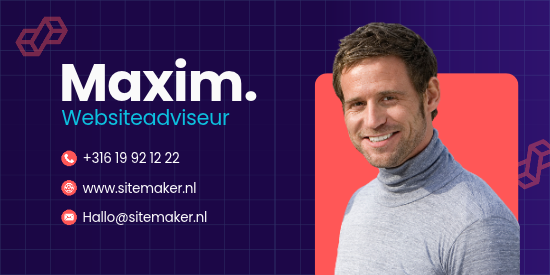
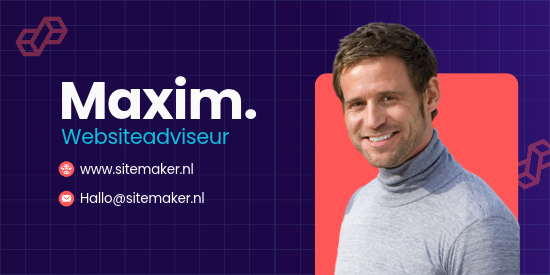
HQ: knop 'Direct offline' (zoeken + concept offline en nooit meer mailen); nieuwe handtekening in de mail (#103)
Claude-Session: https://claude.ai/code/session_01HEiU6SCVQeMyeThAhPgJ1r

Changed region(s): [[0.0927, 0.2036, 0.4636, 0.5236], [0.0927, 0.5527, 0.3709, 0.8145]]

diff --git a/public/hq/app.js b/public/hq/app.js
@@ -1116,7 +1116,7 @@
     const opvolgKlaar = d.followupDue.length;
     render(main, html`
       <div class="hq-kop"><div><h1>B2B</h1><p>Bedrijven benaderen per mail. Niets gaat de deur uit zonder jouw goedkeuring; afmelden kan altijd met één klik. Vandaag verstuurd: ${d.sentToday} van max. ${d.dailyMax}.</p></div>
-        <div class="knoppen"><button class="knop knop-actie" id="lead-nieuw">Lead toevoegen</button><button class="knop knop-licht" id="lead-import">CSV importeren</button>${d.ready.scout ? html`<button class="knop knop-licht" id="scout">Scout nu zoeken</button>` : ""}</div></div>
+        <div class="knoppen"><button class="knop knop-gevaar" id="offline" title="Iemand wil het niet: concept direct offline en nooit meer mailen">Direct offline</button><button class="knop knop-actie" id="lead-nieuw">Lead toevoegen</button><button class="knop knop-licht" id="lead-import">CSV importeren</button>${d.ready.scout ? html`<button class="knop knop-licht" id="scout">Scout nu zoeken</button>` : ""}</div></div>
       ${b2bTabs("leads", n("nieuw"))}
       ${!d.ready.mail ? html`<div class="melding melding-let">${raw(icon.let)}<p>Mail is nog niet ingesteld (MAIL_USER/MAIL_PASSWORD). Goedgekeurde mails blijven in de wachtrij tot dat geregeld is.</p></div>` : ""}
       ${!d.ready.company ? html`<div class="melding melding-let">${raw(icon.let)}<p>Vul bij <a href="#instellingen">Instellingen</a> je bedrijfsnaam en KvK-nummer in; die staan verplicht onder elke zakelijke mail.</p></div>` : ""}
@@ -1140,6 +1140,7 @@
 
     main.querySelectorAll("[data-f]").forEach((b) => b.addEventListener("click", async () => { leadFilter = b.dataset.f; await b2bLeads(main); zetBalk(main, "b2b"); }));
     main.querySelector("#lead-nieuw").onclick = () => leadToevoegen();
+    main.querySelector("#offline").onclick = () => offlineDialoog();
     main.querySelector("#lead-import").onclick = () => leadImport();
     main.querySelector("#scout")?.addEventListener("click", async (e) => { SM.bezig(e.target, true, "Zoeken…"); try { await api("hq/scout", { method: "POST" }); toast("Zoekopdrachten gestart; resultaten komen binnen het uur binnen."); } catch (err) { toast(err.message, "fout"); } SM.bezig(e.target, false); });
     main.querySelector("#opvolgen")?.addEventListener("click", async () => {
@@ -1163,6 +1164,33 @@
     if (!c) return l.website ? html`<span class="klein dempen">Nog niet</span>` : html`<span class="klein dempen">Geen website</span>`;
     if (c.status !== "klaar") return html`${chip(L.concept, c.status)}${c.reden ? html`<br><span class="klein dempen">${c.reden}</span>` : ""}`;
     return html`<a class="klein" href="${c.url}?hq=1" target="_blank" rel="noopener">Bekijken</a>${c.views ? html`<br><span class="status s-fout">${c.views}× bekeken</span>` : html`<br><span class="klein dempen">Nog niet geopend</span>`}`;
+  }
+
+  // Iemand reageert boos of wil het niet: zoek de lead en haal het voorbeeld direct offline (en nooit meer mailen).
+  function offlineDialoog() {
+    const dlg = SM.dialoog("Direct offline halen", html`<form novalidate>
+      <div class="veld"><label for="off-q">Domein, e-mailadres of bedrijfsnaam</label><input id="off-q" name="q" autocomplete="off" placeholder="bijv. fysiokilic.nl"></div>
+      <div id="off-lijst" class="klein dempen">Typ minstens 3 tekens.</div></form>`);
+    const inp = dlg.querySelector("#off-q"), lijst = dlg.querySelector("#off-lijst");
+    let timer;
+    const zoek = async () => {
+      const v = inp.value.trim();
+      if (v.length < 3) { lijst.textContent = "Typ minstens 3 tekens."; return; }
+      try {
+        const r = await api("hq/leads/zoek?q=" + encodeURIComponent(v));
+        if (!r.leads.length) { lijst.textContent = "Niets gevonden."; return; }
+        render(lijst, html`<ul class="offline-lijst">${r.leads.map((l) => html`<li><div><b>${l.company}</b><br><span class="klein dempen">${l.website || ""}${l.email ? ` · ${l.email}` : ""}${l.status === "afgemeld" ? " · al afgemeld" : ""}</span></div>
+          <button class="knop knop-gevaar knop-klein" type="button" data-id="${l.id}" data-naam="${l.company}">${l.status === "afgemeld" ? "Nogmaals offline" : "Offline halen"}</button></li>`)}</ul>`);
+      } catch (e) { lijst.textContent = e.message; }
+    };
+    inp.addEventListener("input", () => { clearTimeout(timer); timer = setTimeout(zoek, 250); });
+    dlg.querySelector("form").addEventListener("submit", (e) => { e.preventDefault(); zoek(); });
+    lijst.addEventListener("click", async (e) => {
+      const b = e.target.closest("button[data-id]"); if (!b) return;
+      if (!(await SM.bevestig("Direct offline halen?", `Het voorbeeld van ${b.dataset.naam} gaat meteen offline en ze krijgen nooit meer een mail van ons.`, "Offline halen"))) return;
+      try { await api("hq/leads/action", { method: "POST", body: { action: "afmelden", ids: [Number(b.dataset.id)] } }); toast("Offline gehaald en afgemeld"); dlg.close(); herlaad(); } catch (err) { toast(err.message, "fout"); }
+    });
+    inp.focus();
   }
 
   function leadToevoegen() {
@@ -1204,7 +1232,7 @@
         <div class="veld"><label for="d-notes">Notities</label><input id="d-notes" name="notes" value="${l.notes}"></div>
         <div class="knoppen"><button class="knop" type="submit">Opslaan</button>${l.website ? html`<button class="knop knop-licht" type="button" data-onderzoek>Website opnieuw onderzoeken</button>` : ""}
           ${["reactie", "afspraak", "verstuurd", "opgevolgd"].includes(l.status) ? html`<button class="knop knop-actie" type="button" data-klant>Maak klant aan</button><button class="knop knop-licht" type="button" data-afspraak>Afspraak gepland</button>` : ""}
-          <button class="knop knop-gevaar" type="button" data-afmelden>Nooit meer mailen</button></div></form>
+          <button class="knop knop-gevaar" type="button" data-afmelden>Direct offline en nooit meer mailen</button></div></form>
       <h3>Voorbeeld ${kind === "opvolging" ? "opvolgmail" : "eerste mail"}</h3><div class="preview" id="preview">Laden…</div>`, { breed: true });
     const form = dlg.querySelector("form");
     const toonPreview = async () => { try { const p = await api(`hq/leads/${l.id}/preview?kind=${kind}`); dlg.querySelector("#preview").textContent = `Onderwerp: ${p.subject}\n\n${p.body}`; } catch (e) { dlg.querySelector("#preview").textContent = e.message; } };
@@ -1216,7 +1244,7 @@
     const act = async (action, msg) => { try { await api("hq/leads/action", { method: "POST", body: { action, ids: [l.id] } }); toast(msg); dlg.close(); herlaad(); } catch (err) { toast(err.message, "fout"); } };
     form.querySelector("[data-onderzoek]")?.addEventListener("click", async (e) => { SM.bezig(e.target, true, "Onderzoeken…"); try { const r = await api("hq/leads/action", { method: "POST", body: { action: "onderzoeken", ids: [l.id] } }); toast(r.email ? `Gevonden: ${r.email}` : `Niet bruikbaar: ${r.reason || "geen adres"}`, r.email ? "ok" : "fout"); dlg.close(); herlaad(); } catch (err) { toast(err.message, "fout"); SM.bezig(e.target, false); } });
     form.querySelector("[data-afspraak]")?.addEventListener("click", () => act("afspraak", "Op afspraak gezet"));
-    form.querySelector("[data-afmelden]").addEventListener("click", async () => { if (await SM.bevestig("Nooit meer mailen?", `${l.email || l.company} komt op de afmeldlijst en krijgt geen B2B-mail meer.`, "Afmelden")) act("afmelden", "Afgemeld"); });
+    form.querySelector("[data-afmelden]").addEventListener("click", async () => { if (await SM.bevestig("Direct offline halen?", `Het voorbeeld van ${l.company} gaat meteen offline en ${l.email || "dit bedrijf"} krijgt nooit meer een mail van ons.`, "Offline halen")) act("afmelden", "Offline gehaald en afgemeld"); });
     form.querySelector("[data-klant]")?.addEventListener("click", () => { dlg.close(); klantDialoog({ company: l.company, email: l.email, phone: l.phone, siteUrl: l.website, notes: l.notes, leadId: l.id }); });
     koppelConcept(dlg, l, () => { dlg.close(); herlaad(); });
   }

diff --git a/public/assets/css/app.css b/public/assets/css/app.css
@@ -651,3 +651,5 @@ details.anders[open] > summary { margin-bottom: 12px; }
 .og-stappen strong { display: block; font-size: 15px; color: #1C0747; }
 .og-stappen span { font-size: 13.5px; line-height: 1.4; }
 @media (max-width: 860px) { .opdracht-groot { grid-template-columns: 1fr; } .og-voorbeeld { border-right: 0; border-bottom: 1px solid var(--lijn, #e2e0ee); min-height: 220px; } .og-schaal iframe { transform: scale(.28); } }
+
+.offline-lijst{list-style:none;margin:12px 0 0;padding:0;display:grid;gap:8px}.offline-lijst li{display:flex;justify-content:space-between;align-items:center;gap:12px;padding:10px 12px;border:1px solid var(--lijn,#e3e0ee);border-radius:10px}
